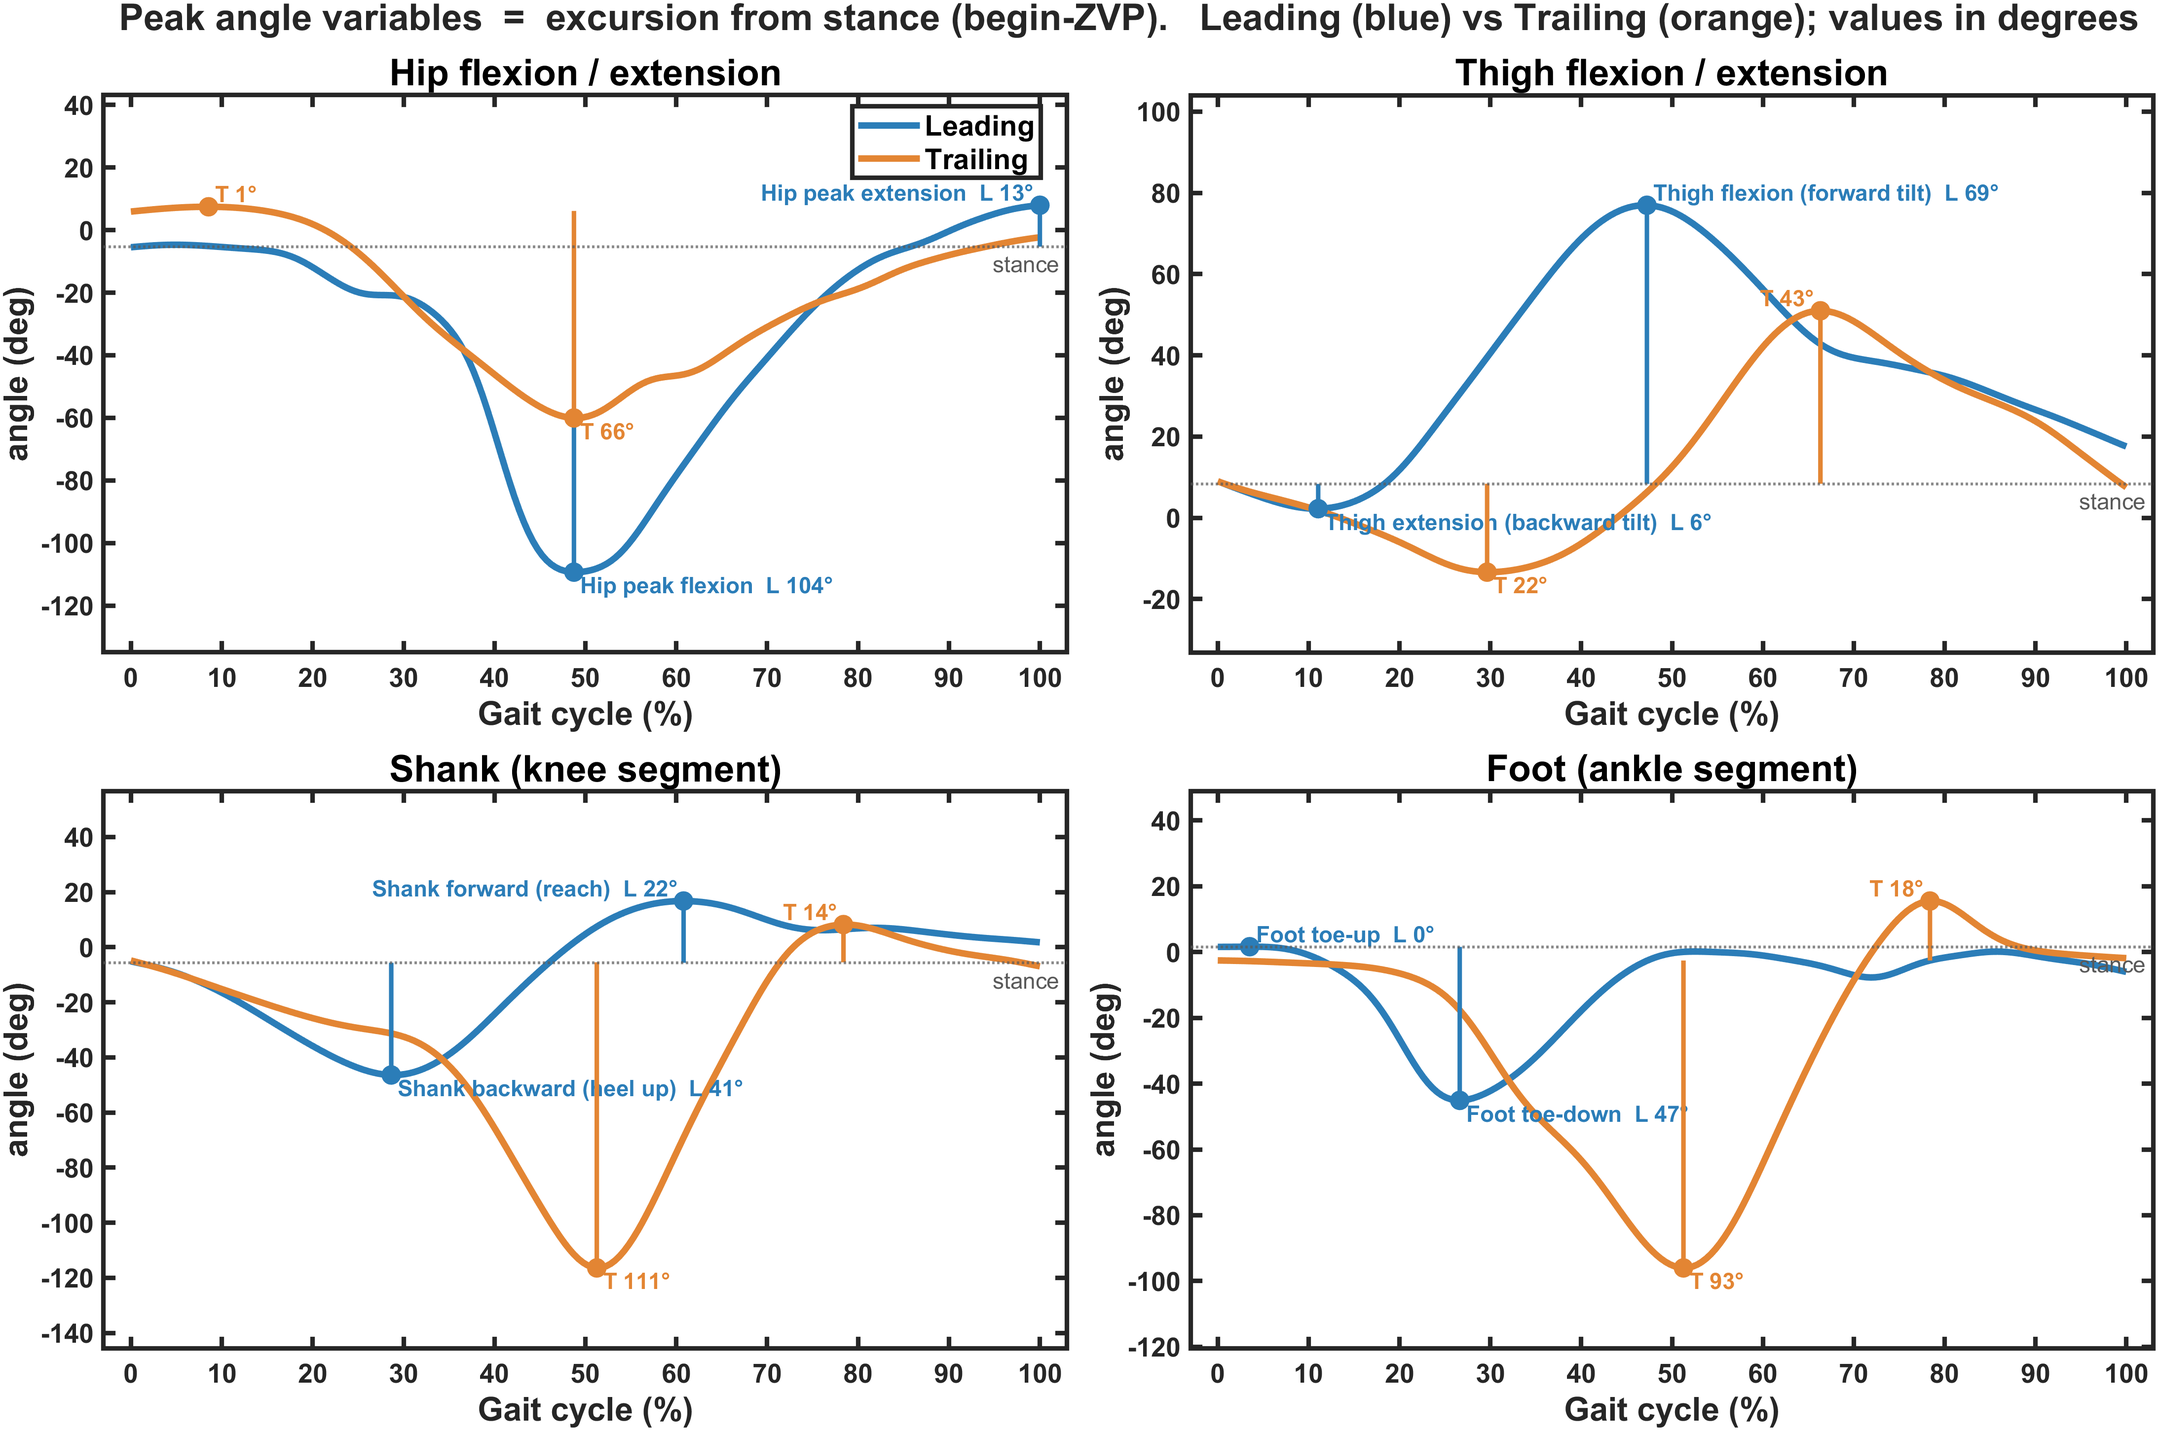
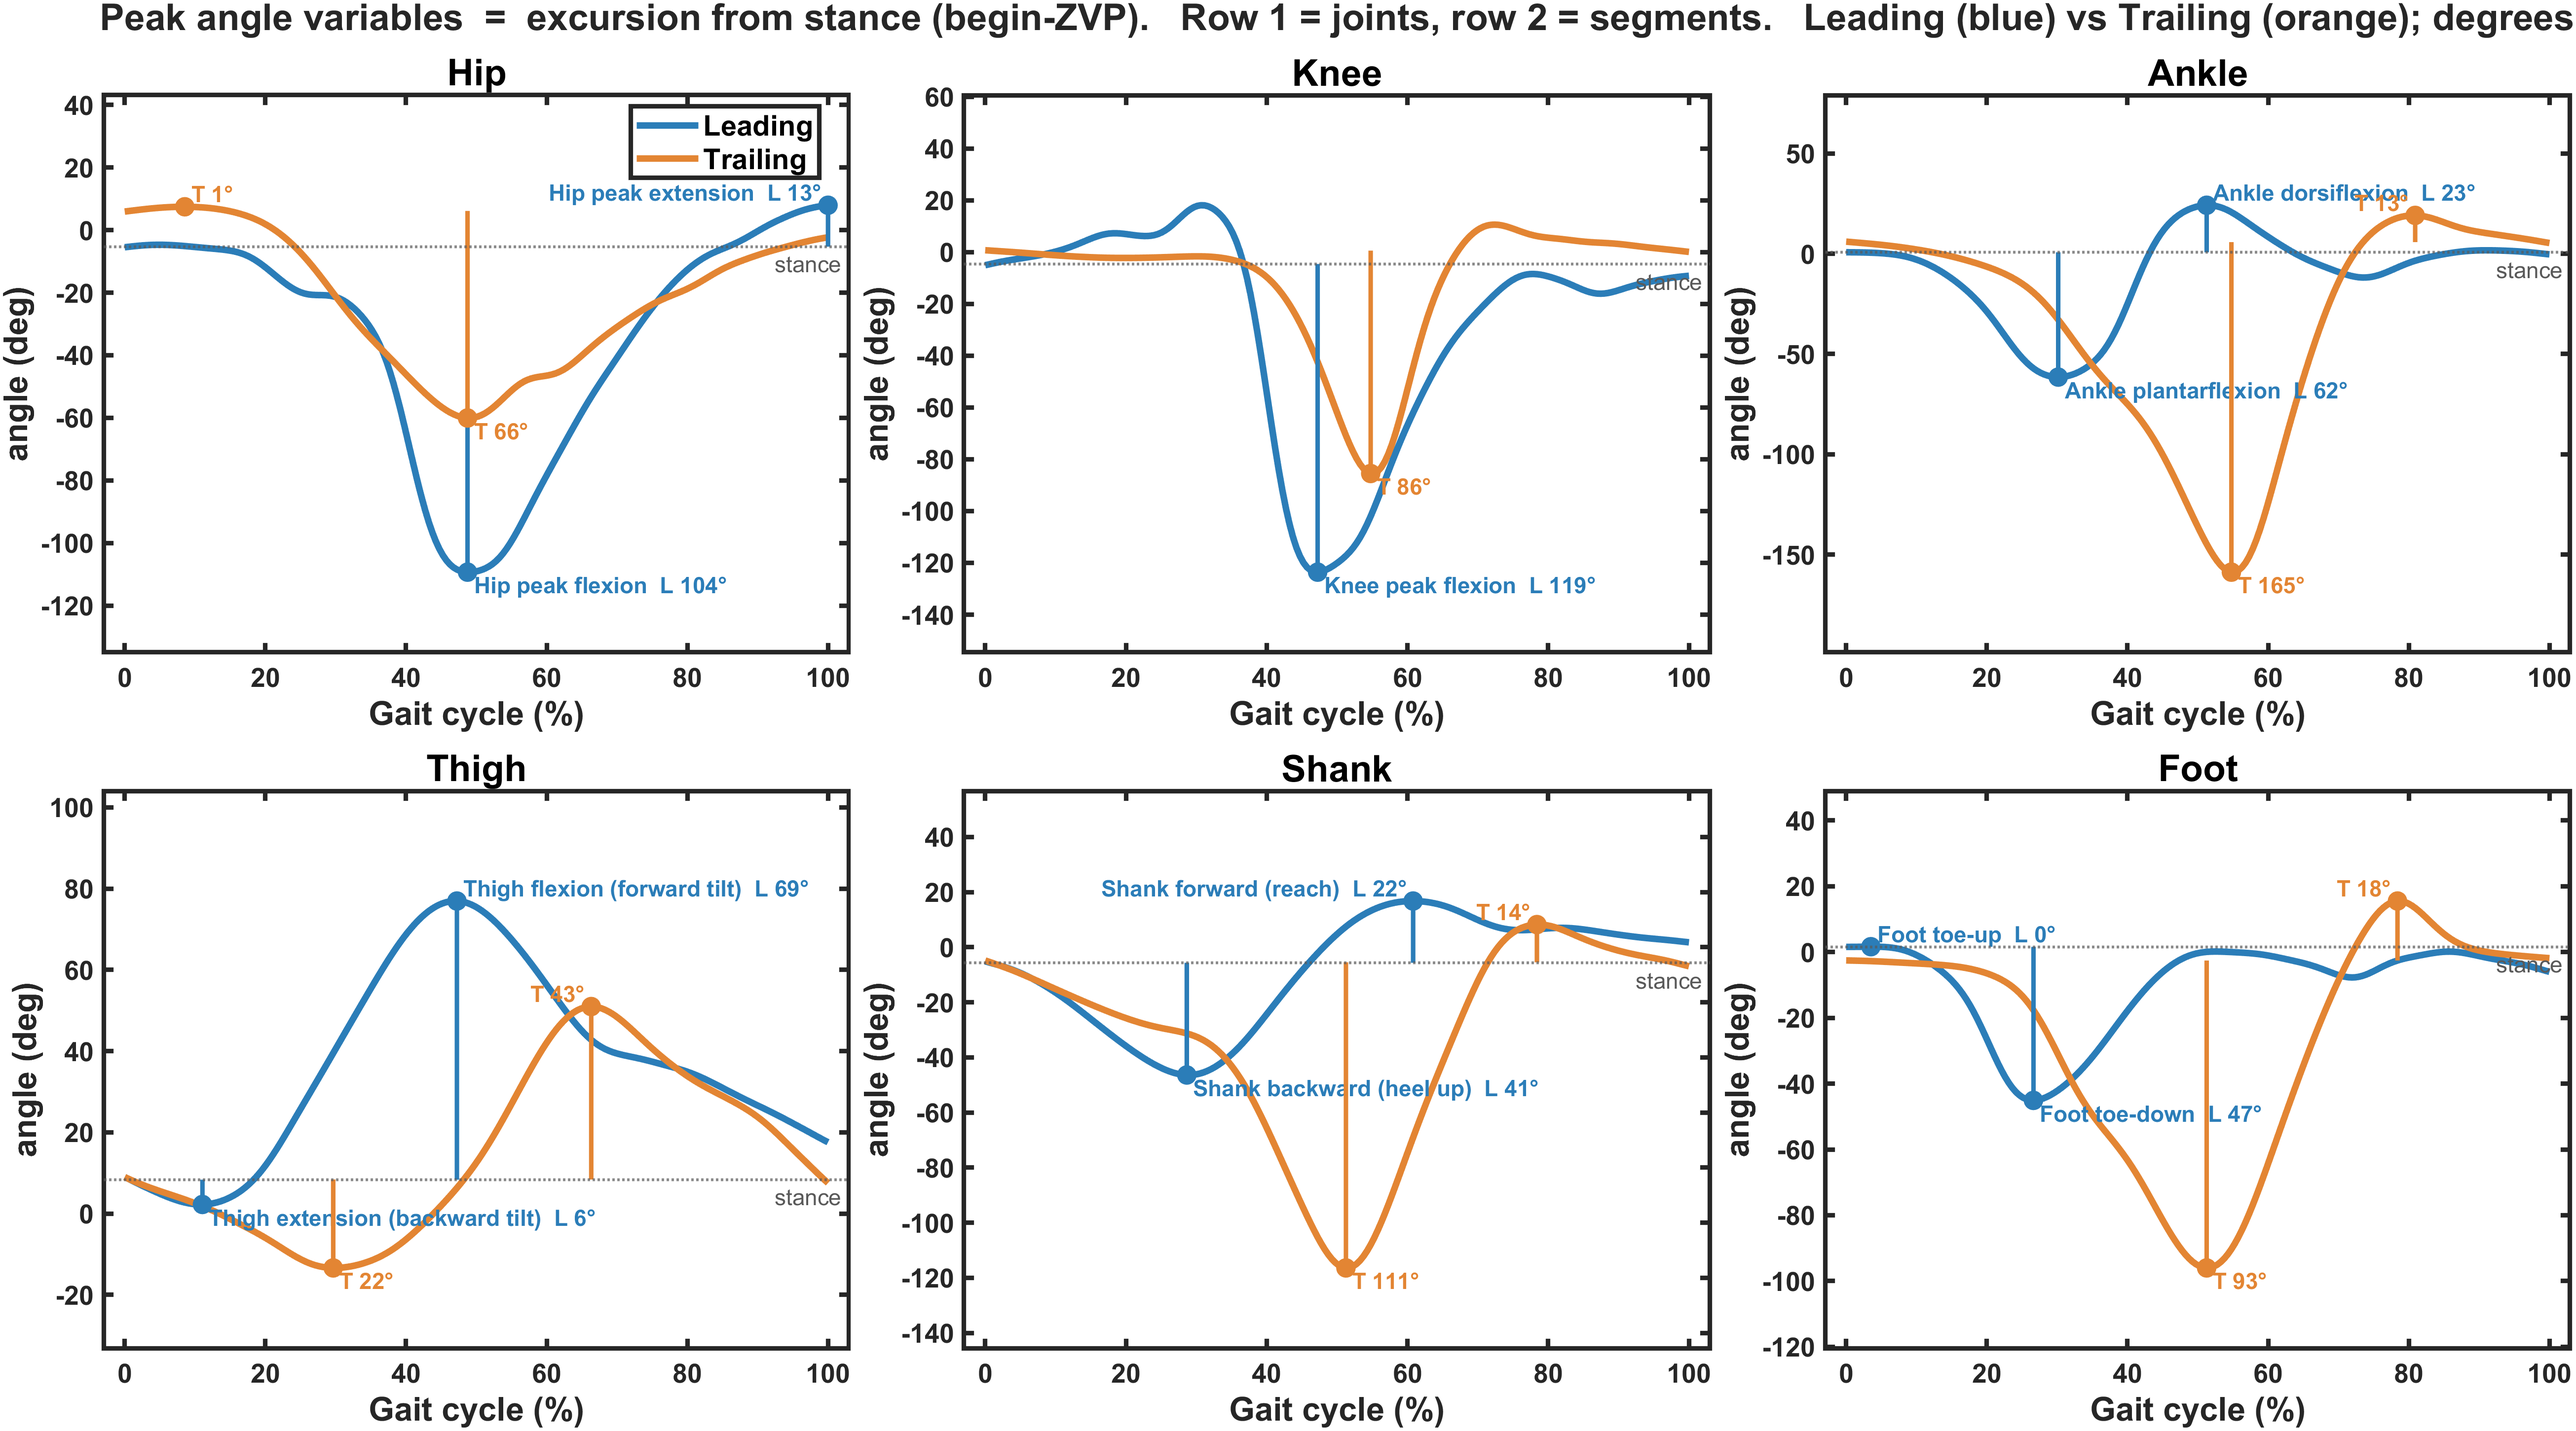
def figures: def_PeakAngles as joints row / segments row (2x3) with knee + ankle
Added the recovered directional peaks back to the peak-angle definition figure and
reorganized it: row 1 = joints (hip flexion/extension, knee flexion, ankle
dorsi/plantarflexion), row 2 = segments (thigh, shank, foot). Knee flexion uses a
sign-invariant marker (ext='abs' = largest-magnitude excursion from stance) via a
new farFromRef helper + 'abs' branch in drawPeakDef (with per-curve label
alignment); ankle dorsi/plantar read from the sign-normalized signal. Also picks up
the earlier def_PeakTiming clearance-label tweak.

diff --git a/Analysis/definition_figures.m b/Analysis/definition_figures.m
@@ -88,17 +88,19 @@ savePNGdef(f2, outDir, 'def_ROM');
 % per signal, for the limb where it reads best; peaks coloured red (primary) /
 % green (secondary). {signal, kind, role(example limb), nice, {name, ext, PorS}...}
 C_LEAD = [0.17 0.49 0.72];  C_TRAIL = [0.89 0.52 0.20];  C_REF = [0.35 0.35 0.35];
-% Only signals with VALID, sign-stable directional peaks: hip joint + Dot segments.
-% (Knee/ankle joints flip sign between walking and crossing, so they have no
-% directional peak - they are defined by ROM instead; see def_ROM / step9.)
+% Row 1 = JOINTS (hip / knee / ankle), row 2 = SEGMENTS (thigh / shank / foot).
+% Knee flexion is sign-invariant ('abs' = larger-magnitude excursion from stance);
+% ankle dorsi/plantar + hip & the Dot segments are sign-normalized (signNormTools).
 PANELS = {   % signal, kind, nice, {peak name, ext, P/S}
- 'hip_flexion','Joint','Hip flexion / extension',        { 'Hip peak flexion','min','P';   'Hip peak extension','max','S' };
- 'Thigh',      'Seg',  'Thigh flexion / extension',      { 'Thigh flexion (forward tilt)','max','P'; 'Thigh extension (backward tilt)','min','S' };
- 'Shank',      'Seg',  'Shank (knee segment)',           { 'Shank backward (heel up)','min','P'; 'Shank forward (reach)','max','S' };
- 'Foot',       'Seg',  'Foot (ankle segment)',           { 'Foot toe-down','min','P';     'Foot toe-up','max','S' };
+ 'hip_flexion','Joint','Hip',   { 'Hip peak flexion','min','P';   'Hip peak extension','max','S' };
+ 'knee_angle', 'Joint','Knee',  { 'Knee peak flexion','abs','P' };
+ 'ankle_angle','Joint','Ankle', { 'Ankle dorsiflexion','max','P'; 'Ankle plantarflexion','min','P' };
+ 'Thigh',      'Seg',  'Thigh', { 'Thigh flexion (forward tilt)','max','P'; 'Thigh extension (backward tilt)','min','S' };
+ 'Shank',      'Seg',  'Shank', { 'Shank backward (heel up)','min','P'; 'Shank forward (reach)','max','S' };
+ 'Foot',       'Seg',  'Foot',  { 'Foot toe-down','min','P';     'Foot toe-up','max','S' };
 };
-f3 = figure('Color','w','Position',[30 60 1480 940]);
-tl3 = tiledlayout(f3,2,2,'TileSpacing','compact','Padding','compact');
+f3 = figure('Color','w','Position',[25 45 1760 940]);
+tl3 = tiledlayout(f3,2,3,'TileSpacing','compact','Padding','compact');
 for i = 1:size(PANELS,1)
     sig = PANELS{i,1};  kind = PANELS{i,2};
     yL = smoothSig(meanCrossStrideRole(Sg, S5, sig, kind, 'Leading',  SEG_SYS));
@@ -106,7 +108,7 @@ for i = 1:size(PANELS,1)
     drawPeakDef(nexttile(tl3), pct, yL, yT, PANELS{i,3}, PANELS{i,4}, i==1, ...
         FN,SZ_T,SZ_L,SZ_TK,SZ_ANN,BOXW,LW,C_LEAD,C_TRAIL,C_REF);
 end
-title(tl3,'Peak angle variables  =  excursion from stance (begin-ZVP).   Leading (blue) vs Trailing (orange); values in degrees', ...
+title(tl3,'Peak angle variables  =  excursion from stance (begin-ZVP).   Row 1 = joints, row 2 = segments.   Leading (blue) vs Trailing (orange); degrees', ...
     'FontName',FN,'FontSize',SZ_T,'FontWeight','bold');
 savePNGdef(f3, outDir, 'def_PeakAngles');
 
@@ -198,18 +200,24 @@ function drawPeakDef(ax, pct, yL, yT, ttl, peaks, showLeg, FN,SZ_T,SZ_L,SZ_TK,SZ
     fs = max(10, SZ_ANN-3);
     for p = 1:size(peaks,1)
         nm = peaks{p,1};  ext = peaks{p,2};
-        if strcmpi(ext,'min'), [vL,iL]=min(yL); [vT,iT]=min(yT);  va='top'; else, [vL,iL]=max(yL); [vT,iT]=max(yT);  va='bottom'; end
+        switch lower(ext)
+            case 'min', [vL,iL]=min(yL); [vT,iT]=min(yT);
+            case 'max', [vL,iL]=max(yL); [vT,iT]=max(yT);
+            otherwise,  [vL,iL]=farFromRef(yL,refL); [vT,iT]=farFromRef(yT,refT);  % 'abs': sign-invariant
+        end
+        vaL = 'top'; if vL >= refL, vaL = 'bottom'; end
+        vaT = 'top'; if vT >= refT, vaT = 'bottom'; end
         % Leading
         plot(ax, [pct(iL) pct(iL)], [refL vL], '-', 'Color',cLead, 'LineWidth',2.2);
         plot(ax, pct(iL), vL, 'o','Color',cLead,'MarkerFaceColor',cLead,'MarkerSize',9);
         haL = 'left'; if pct(iL) > 55, haL = 'right'; end
-        text(ax, pct(iL), vL, sprintf(' %s  L %.0f° ', nm, abs(vL-refL)), 'HorizontalAlignment',haL,'VerticalAlignment',va, ...
+        text(ax, pct(iL), vL, sprintf(' %s  L %.0f° ', nm, abs(vL-refL)), 'HorizontalAlignment',haL,'VerticalAlignment',vaL, ...
             'FontName',FN,'FontSize',fs,'FontWeight','bold','Color',cLead);
         % Trailing
         plot(ax, [pct(iT) pct(iT)], [refT vT], '-', 'Color',cTrail, 'LineWidth',2.2);
         plot(ax, pct(iT), vT, 'o','Color',cTrail,'MarkerFaceColor',cTrail,'MarkerSize',9);
         haT = 'left'; if pct(iT) > 55, haT = 'right'; end
-        text(ax, pct(iT), vT, sprintf(' T %.0f° ', abs(vT-refT)), 'HorizontalAlignment',haT,'VerticalAlignment',va, ...
+        text(ax, pct(iT), vT, sprintf(' T %.0f° ', abs(vT-refT)), 'HorizontalAlignment',haT,'VerticalAlignment',vaT, ...
             'FontName',FN,'FontSize',fs,'FontWeight','bold','Color',cTrail);
     end
     xlabel(ax,'Gait cycle (%)','FontName',FN,'FontSize',SZ_L,'FontWeight','bold');
@@ -239,6 +247,12 @@ end
 
 function w = sideWord(s)
     if s=='R', w = 'Right'; else, w = 'Left'; end
+end
+
+function [v,i] = farFromRef(y, ref)
+% The sample with the largest magnitude excursion from the stance reference (used for
+% a sign-invariant peak, e.g. knee flexion).
+    [~,i] = max(abs(y - ref));  v = y(i);
 end
 
 function m = meanFootHeightRole(Sg, S5, role)
